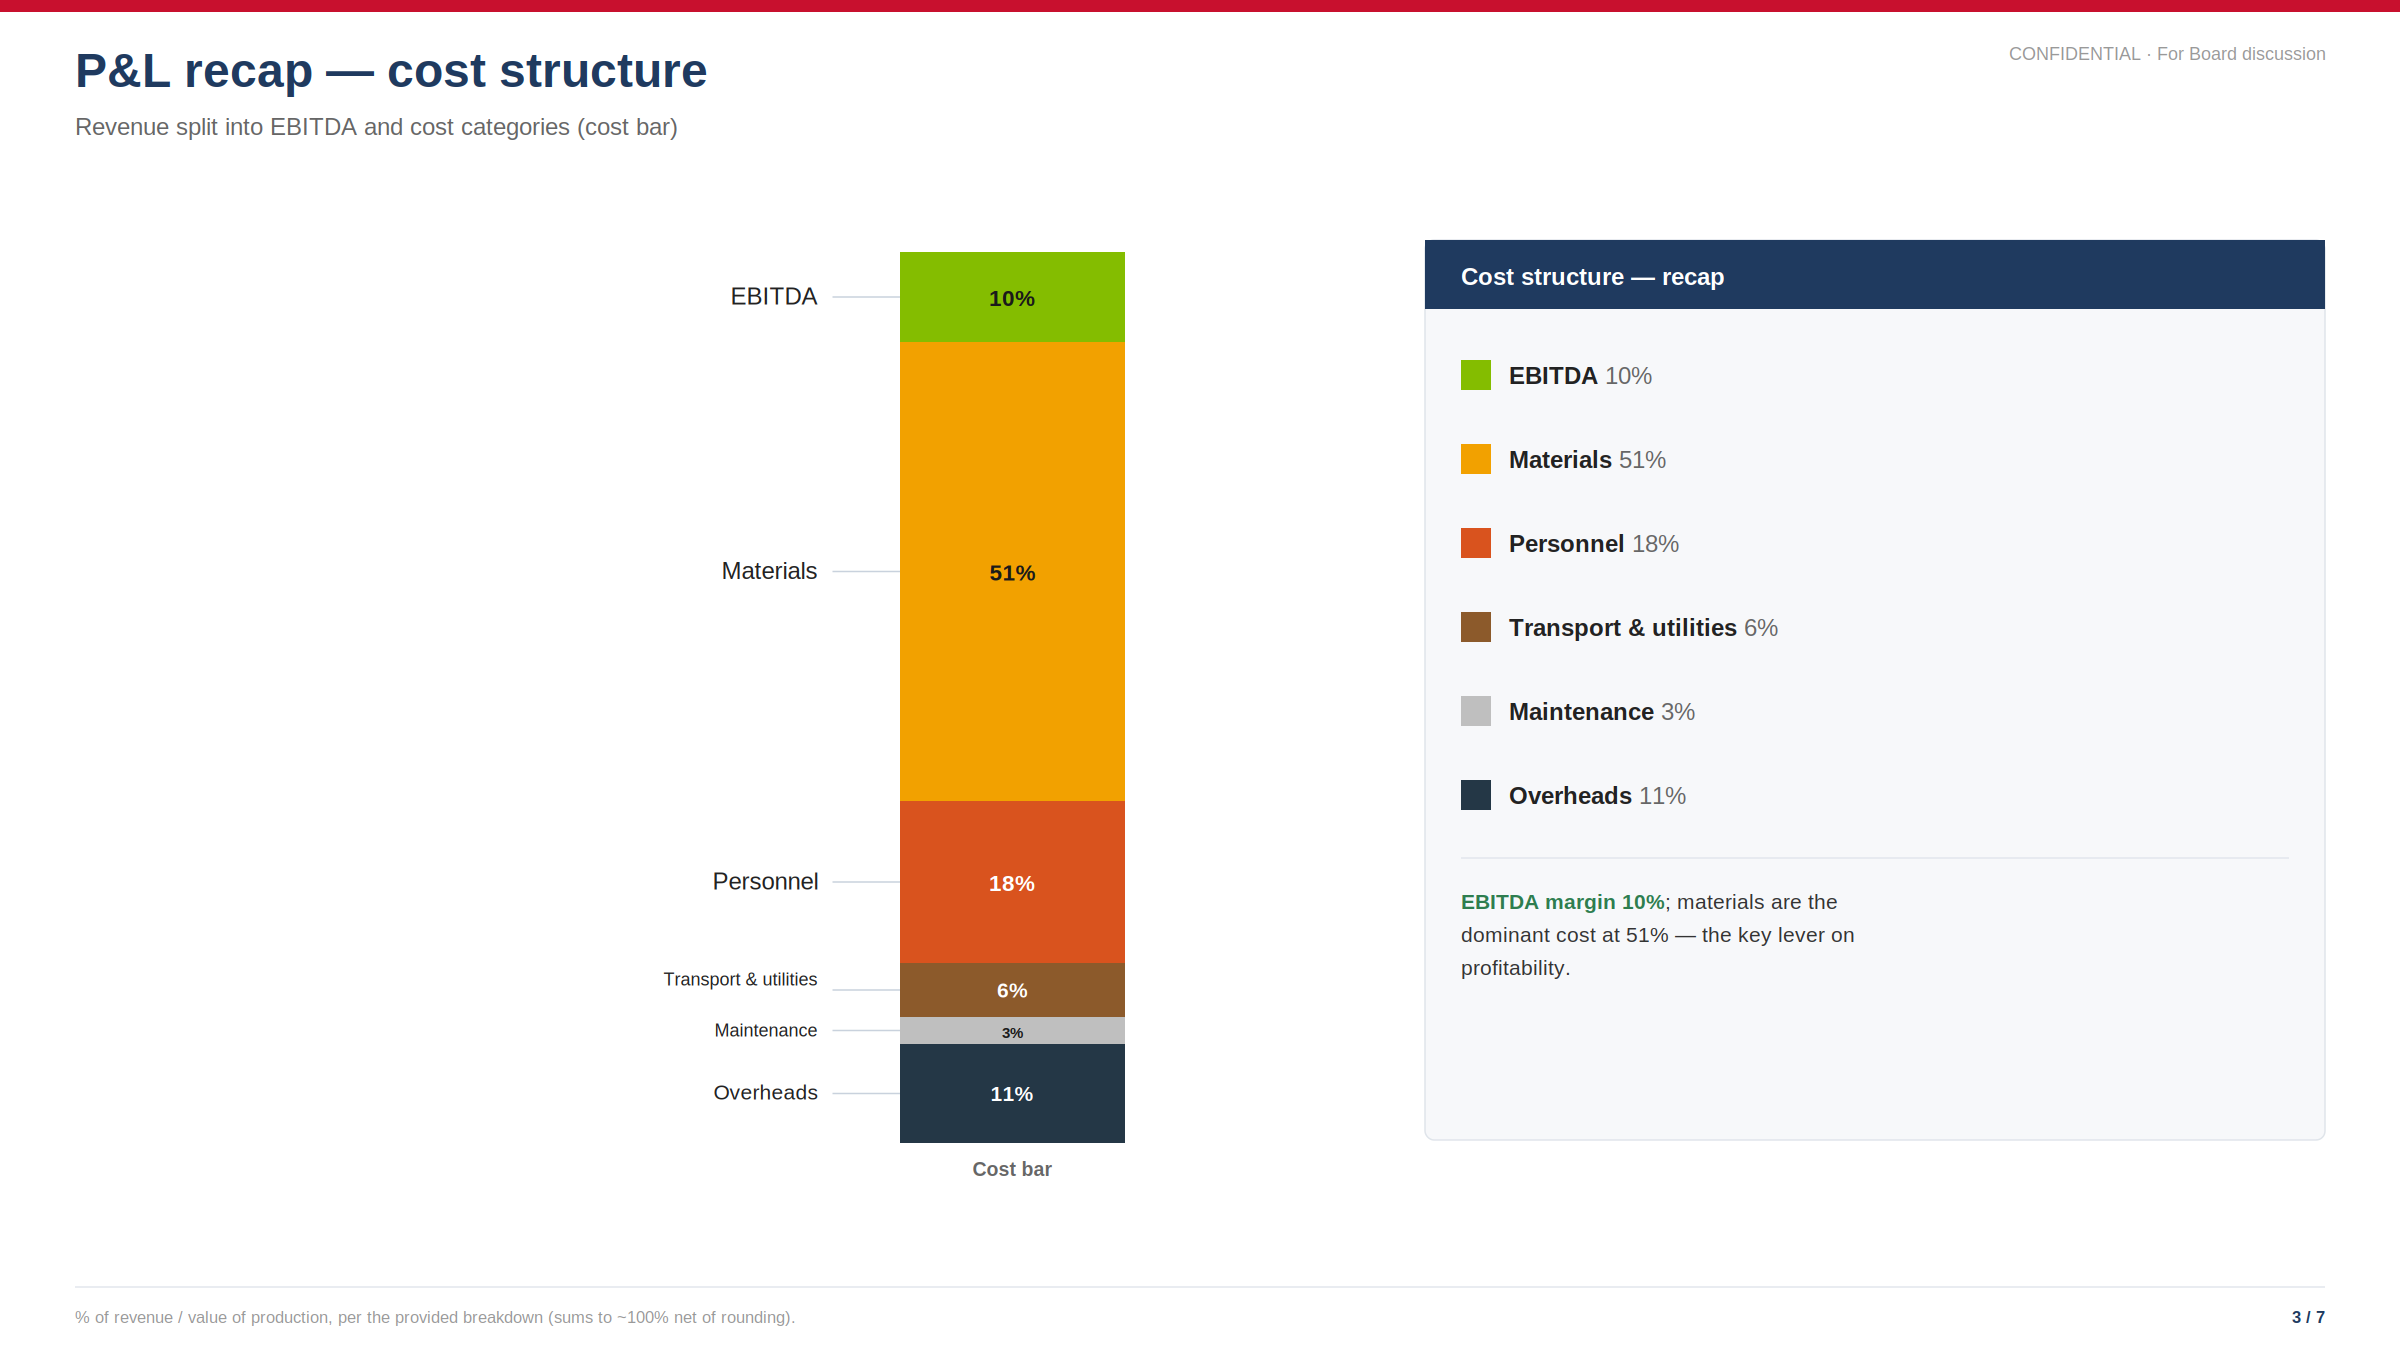
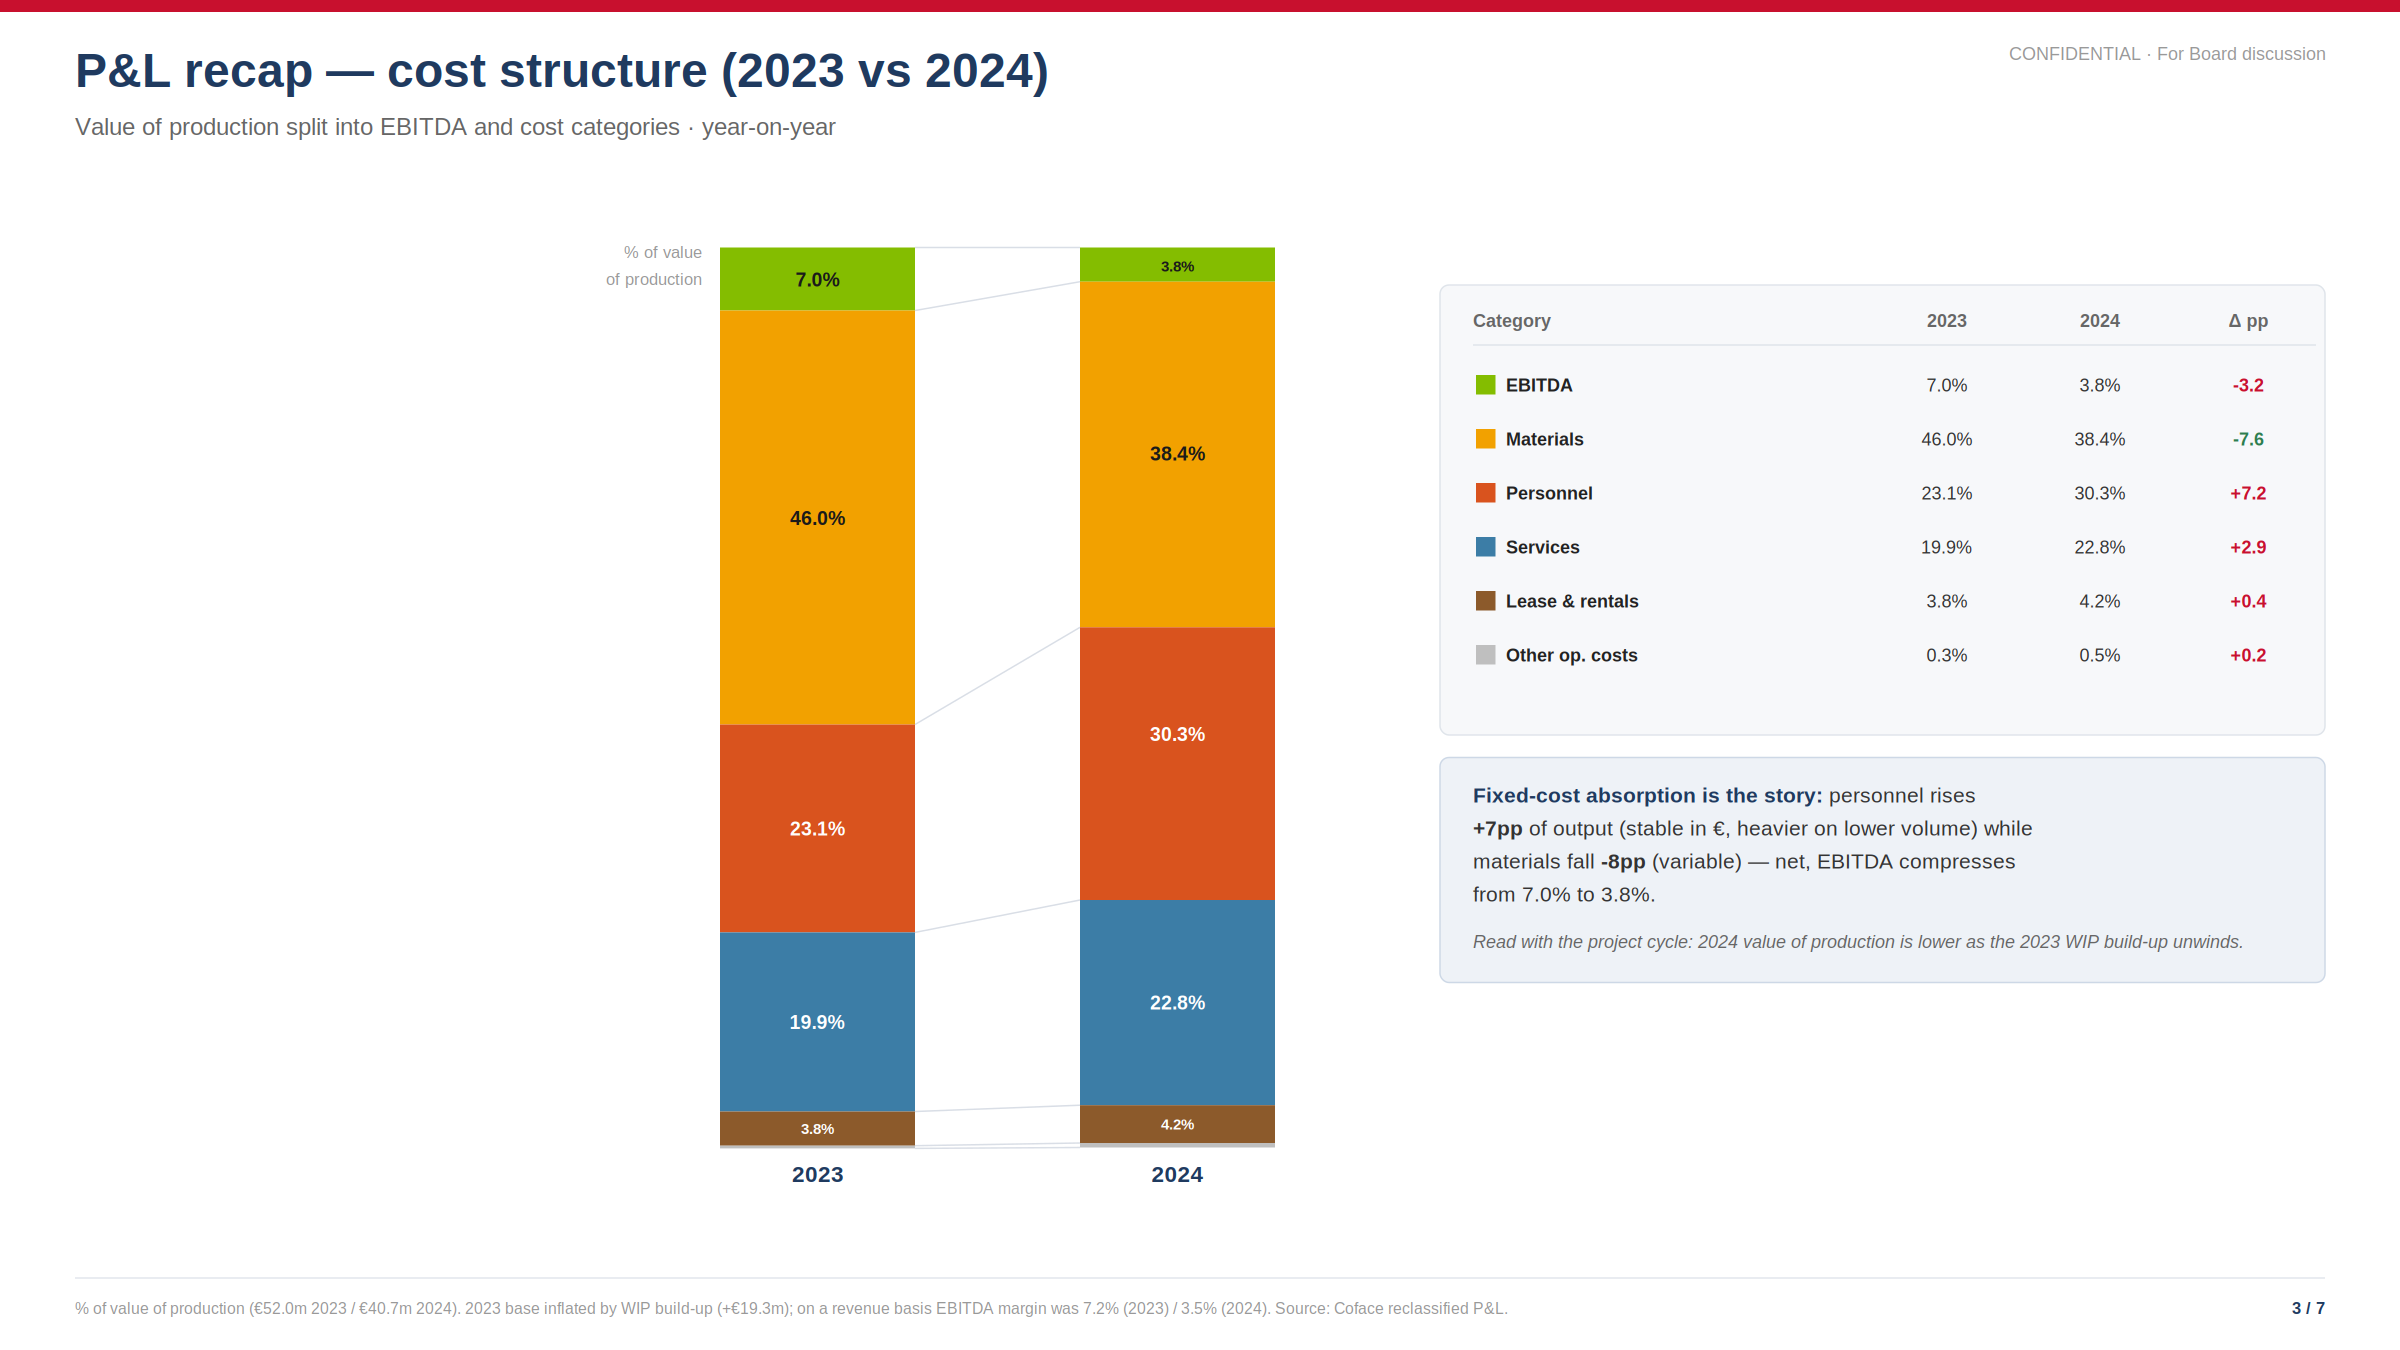
Rework P&L slide with real Hennecke data and 2023-vs-2024 YoY comparison

diff --git a/Hennecke/pitch/build_pptx_editable.py b/Hennecke/pitch/build_pptx_editable.py
@@ -6,7 +6,7 @@ from pptx import Presentation
 from pptx.util import Emu, Pt
 from pptx.dml.color import RGBColor
 from pptx.enum.text import PP_ALIGN, MSO_ANCHOR
-from pptx.enum.shapes import MSO_SHAPE
+from pptx.enum.shapes import MSO_SHAPE, MSO_CONNECTOR
 from pptx.chart.data import CategoryChartData
 from pptx.enum.chart import XL_CHART_TYPE, XL_LEGEND_POSITION, XL_LABEL_POSITION
 
@@ -238,40 +238,58 @@ para(tb(s, 50, 866, 900, 20), "Source: Coface Full Report (filed FY2023–2024).
      size=9.5, color=MUTED, first=True)
 
 # =====================================================================
-# SLIDE 2a2 — P&L COST STRUCTURE (recap bar)
+# SLIDE 2a2 — P&L COST STRUCTURE 2023 vs 2024 (YoY)
 # =====================================================================
 s = slide()
-header(s, "P&L recap \u2014 cost structure",
-       "Revenue split into EBITDA and cost categories (cost bar)", "3 / 7")
-BARX, BARW, top, PPC = 600, 150, 168, 6.0
-segs = [
-    ("EBITDA", 10, "84BD00", INK),
-    ("Materials", 51, "F2A100", INK),
-    ("Personnel", 18, "D9531E", WHITE),
-    ("Transport & utilities", 6, "8C5A2B", WHITE),
-    ("Maintenance", 3, "BFBFBF", INK),
-    ("Overheads", 11, "243746", WHITE),
-]
-y = top
-for name, pct, color, txtcol in segs:
-    h = pct*PPC
-    rect(s, BARX, y, BARW, h, fill=color)
-    para(tb(s, BARX, y, BARW, h, "m"), f"{pct}%", size=(15 if h>=30 else 10), color=txtcol, bold=True, align="c", first=True)
-    lab = tb(s, 300, y, 250, h, "m")
-    para(lab, name, size=(15 if h>=40 else 12), color=INK, align="r", first=True)
-    rect(s, 555, y+h/2.0, BARX-555, 1, fill="C9D2DD")
-    y += h
-para(tb(s, BARX-40, y+8, BARW+80, 24), "Cost bar", size=13, color=GRAY, bold=True, align="c", first=True)
-# right recap panel
-rect(s, 950, 160, 600, 600, fill=LIGHT, line=BORDER)
-card_title(s, 950, 160, 600, "Cost structure \u2014 recap", BLUE)
-tfp = tb(s, 974, 230, 552, 460)
-rows = [("84BD00","EBITDA","10%"),("F2A100","Materials","51%"),("D9531E","Personnel","18%"),
-        ("8C5A2B","Transport & utilities","6%"),("BFBFBF","Maintenance","3%"),("243746","Overheads","11%")]
-for i,(c,n,pc) in enumerate(rows):
-    para(tfp, [("\u25A0  ", False, c, 17), (n, True, INK, 15), ("      "+pc, False, GRAY, 15)], first=(i==0), after=13)
-para(tfp, [("EBITDA margin 10%", True, GREEN, 14), ("; materials are the dominant cost at 51% \u2014 the key lever on profitability.", False, TXT, 14)], after=6)
-para(tb(s, 50, 866, 1300, 20), "% of revenue / value of production, per the provided breakdown (sums to ~100% net of rounding).", size=9.5, color=MUTED, first=True)
+header(s, "P&L recap — cost structure (2023 vs 2024)",
+       "Value of production split into EBITDA and cost categories · year-on-year", "3 / 7")
+cats = ["EBITDA", "Materials", "Personnel", "Services", "Lease & rentals", "Other op. costs"]
+colA = {"EBITDA":"84BD00","Materials":"F2A100","Personnel":"D9531E","Services":"3C7DA6","Lease & rentals":"8C5A2B","Other op. costs":"BFBFBF"}
+txtA = {"EBITDA":INK,"Materials":INK,"Personnel":WHITE,"Services":WHITE,"Lease & rentals":WHITE,"Other op. costs":INK}
+d23 = {"EBITDA":7.0,"Materials":46.0,"Personnel":23.1,"Services":19.9,"Lease & rentals":3.8,"Other op. costs":0.3}
+d24 = {"EBITDA":3.8,"Materials":38.4,"Personnel":30.3,"Services":22.8,"Lease & rentals":4.2,"Other op. costs":0.5}
+deltas = {"EBITDA":"-3.2","Materials":"-7.6","Personnel":"+7.2","Services":"+2.9","Lease & rentals":"+0.4","Other op. costs":"+0.2"}
+TOPB, SCALE, BW = 165, 6.0, 130
+def draw_bar(x, data):
+    y = TOPB; bounds = [y]
+    for c in cats:
+        h = data[c]*SCALE
+        rect(s, x, y, BW, h, fill=colA[c])
+        if h >= 17:
+            para(tb(s, x, y, BW, h, "m"), f"{data[c]:.1f}%", size=(13 if h >= 28 else 10), color=txtA[c], bold=True, align="c", first=True)
+        y += h; bounds.append(y)
+    return bounds
+BX1, BX2 = 480, 720
+b1 = draw_bar(BX1, d23)
+b2 = draw_bar(BX2, d24)
+for i in range(len(b1)):
+    cn = s.shapes.add_connector(MSO_CONNECTOR.STRAIGHT, PX(BX1+BW), PX(b1[i]), PX(BX2), PX(b2[i]))
+    cn.line.color.rgb = RGBColor.from_string("D9DEE6"); cn.line.width = Pt(0.75); cn.shadow.inherit = False
+para(tb(s, BX1-20, b1[-1]+8, BW+40, 24), "2023", size=15, color=BLUE, bold=True, align="c", first=True)
+para(tb(s, BX2-20, b2[-1]+8, BW+40, 24), "2024", size=15, color=BLUE, bold=True, align="c", first=True)
+para(tb(s, 350, TOPB-2, 120, 22), "% of value", size=11, color=MUTED, align="r", first=True)
+para(tb(s, 350, TOPB+16, 120, 22), "of production", size=11, color=MUTED, align="r", first=True)
+# recap table (manual, fully styled)
+rect(s, 960, 190, 590, 300, fill=LIGHT, line=BORDER)
+para(tb(s, 982, 200, 260, 26), "Category", size=12, color=GRAY, bold=True, first=True)
+para(tb(s, 1250, 200, 96, 26), "2023", size=12, color=GRAY, bold=True, align="c", first=True)
+para(tb(s, 1352, 200, 96, 26), "2024", size=12, color=GRAY, bold=True, align="c", first=True)
+para(tb(s, 1454, 200, 90, 26), "Δ pp", size=12, color=GRAY, bold=True, align="c", first=True)
+rect(s, 982, 230, 562, 1, fill=BORDER)
+ry = 244
+for c in cats:
+    para(tb(s, 982, ry, 268, 28, "m"), [("■ ", False, colA[c], 12), (c, True, INK, 12)], first=True)
+    para(tb(s, 1250, ry, 96, 28, "m"), f"{d23[c]:.1f}%", size=12, color=TXT, align="c", first=True)
+    para(tb(s, 1352, ry, 96, 28, "m"), f"{d24[c]:.1f}%", size=12, color=TXT, align="c", first=True)
+    dv = deltas[c]; dcol = "2E7D4F" if (dv.startswith("-") and c != "EBITDA") else "C8102E"
+    para(tb(s, 1454, ry, 90, 28, "m"), dv, size=12, color=dcol, bold=True, align="c", first=True)
+    ry += 36
+# callout
+rect(s, 960, 505, 590, 150, fill=BLUEBG, line=BLUELN)
+tfc = tb(s, 982, 517, 546, 130)
+para(tfc, [("Fixed-cost absorption is the story: ", True, BLUE, 14), ("personnel rises ", False, TXT, 14), ("+7pp", True, TXT, 14), (" of output (stable in €, heavier on lower volume) while materials fall ", False, TXT, 14), ("-8pp", True, TXT, 14), (" (variable) — net, EBITDA compresses from 7.0% to 3.8%.", False, TXT, 14)], first=True, after=6)
+para(tfc, "Read with the project cycle: 2024 value of production is lower as the 2023 WIP build-up unwinds.", size=12, color=GRAY, italic=True)
+para(tb(s, 50, 860, 1330, 30), "% of value of production (€52.0m 2023 / €40.7m 2024). 2023 base inflated by WIP build-up (+€19.3m); on a revenue basis EBITDA margin was 7.2% (2023) / 3.5% (2024). Source: Coface reclassified P&L.", size=9.5, color=MUTED, first=True)
 
 # =====================================================================
 # SLIDE 2b — CUSTOMER MAPPING (B2B end-markets)

diff --git a/Hennecke/pitch/modify_pl_slide.py b/Hennecke/pitch/modify_pl_slide.py
@@ -1,0 +1,74 @@
+#!/usr/bin/env python3
+# -*- coding: utf-8 -*-
+"""Replace the P&L cost-structure slide block with a 2023-vs-2024 YoY version
+using Hennecke-OMS real figures (% of value of production)."""
+f = "/home/user/Storage/Hennecke/pitch/build_pptx_editable.py"
+src = open(f).read()
+
+# ensure MSO_CONNECTOR import
+if "MSO_CONNECTOR" not in src:
+    src = src.replace("from pptx.enum.shapes import MSO_SHAPE",
+                      "from pptx.enum.shapes import MSO_SHAPE, MSO_CONNECTOR")
+
+NEW = r'''# =====================================================================
+# SLIDE 2a2 — P&L COST STRUCTURE 2023 vs 2024 (YoY)
+# =====================================================================
+s = slide()
+header(s, "P&L recap — cost structure (2023 vs 2024)",
+       "Value of production split into EBITDA and cost categories · year-on-year", "3 / 7")
+cats = ["EBITDA", "Materials", "Personnel", "Services", "Lease & rentals", "Other op. costs"]
+colA = {"EBITDA":"84BD00","Materials":"F2A100","Personnel":"D9531E","Services":"3C7DA6","Lease & rentals":"8C5A2B","Other op. costs":"BFBFBF"}
+txtA = {"EBITDA":INK,"Materials":INK,"Personnel":WHITE,"Services":WHITE,"Lease & rentals":WHITE,"Other op. costs":INK}
+d23 = {"EBITDA":7.0,"Materials":46.0,"Personnel":23.1,"Services":19.9,"Lease & rentals":3.8,"Other op. costs":0.3}
+d24 = {"EBITDA":3.8,"Materials":38.4,"Personnel":30.3,"Services":22.8,"Lease & rentals":4.2,"Other op. costs":0.5}
+deltas = {"EBITDA":"-3.2","Materials":"-7.6","Personnel":"+7.2","Services":"+2.9","Lease & rentals":"+0.4","Other op. costs":"+0.2"}
+TOPB, SCALE, BW = 165, 6.0, 130
+def draw_bar(x, data):
+    y = TOPB; bounds = [y]
+    for c in cats:
+        h = data[c]*SCALE
+        rect(s, x, y, BW, h, fill=colA[c])
+        if h >= 17:
+            para(tb(s, x, y, BW, h, "m"), f"{data[c]:.1f}%", size=(13 if h >= 28 else 10), color=txtA[c], bold=True, align="c", first=True)
+        y += h; bounds.append(y)
+    return bounds
+BX1, BX2 = 480, 720
+b1 = draw_bar(BX1, d23)
+b2 = draw_bar(BX2, d24)
+for i in range(len(b1)):
+    cn = s.shapes.add_connector(MSO_CONNECTOR.STRAIGHT, PX(BX1+BW), PX(b1[i]), PX(BX2), PX(b2[i]))
+    cn.line.color.rgb = RGBColor.from_string("D9DEE6"); cn.line.width = Pt(0.75); cn.shadow.inherit = False
+para(tb(s, BX1-20, b1[-1]+8, BW+40, 24), "2023", size=15, color=BLUE, bold=True, align="c", first=True)
+para(tb(s, BX2-20, b2[-1]+8, BW+40, 24), "2024", size=15, color=BLUE, bold=True, align="c", first=True)
+para(tb(s, 350, TOPB-2, 120, 22), "% of value", size=11, color=MUTED, align="r", first=True)
+para(tb(s, 350, TOPB+16, 120, 22), "of production", size=11, color=MUTED, align="r", first=True)
+# recap table (manual, fully styled)
+rect(s, 960, 190, 590, 300, fill=LIGHT, line=BORDER)
+para(tb(s, 982, 200, 260, 26), "Category", size=12, color=GRAY, bold=True, first=True)
+para(tb(s, 1250, 200, 96, 26), "2023", size=12, color=GRAY, bold=True, align="c", first=True)
+para(tb(s, 1352, 200, 96, 26), "2024", size=12, color=GRAY, bold=True, align="c", first=True)
+para(tb(s, 1454, 200, 90, 26), "Δ pp", size=12, color=GRAY, bold=True, align="c", first=True)
+rect(s, 982, 230, 562, 1, fill=BORDER)
+ry = 244
+for c in cats:
+    para(tb(s, 982, ry, 268, 28, "m"), [("■ ", False, colA[c], 12), (c, True, INK, 12)], first=True)
+    para(tb(s, 1250, ry, 96, 28, "m"), f"{d23[c]:.1f}%", size=12, color=TXT, align="c", first=True)
+    para(tb(s, 1352, ry, 96, 28, "m"), f"{d24[c]:.1f}%", size=12, color=TXT, align="c", first=True)
+    dv = deltas[c]; dcol = "2E7D4F" if (dv.startswith("-") and c != "EBITDA") else "C8102E"
+    para(tb(s, 1454, ry, 90, 28, "m"), dv, size=12, color=dcol, bold=True, align="c", first=True)
+    ry += 36
+# callout
+rect(s, 960, 505, 590, 150, fill=BLUEBG, line=BLUELN)
+tfc = tb(s, 982, 517, 546, 130)
+para(tfc, [("Fixed-cost absorption is the story: ", True, BLUE, 14), ("personnel rises ", False, TXT, 14), ("+7pp", True, TXT, 14), (" of output (stable in €, heavier on lower volume) while materials fall ", False, TXT, 14), ("-8pp", True, TXT, 14), (" (variable) — net, EBITDA compresses from 7.0% to 3.8%.", False, TXT, 14)], first=True, after=6)
+para(tfc, "Read with the project cycle: 2024 value of production is lower as the 2023 WIP build-up unwinds.", size=12, color=GRAY, italic=True)
+para(tb(s, 50, 860, 1330, 30), "% of value of production (€52.0m 2023 / €40.7m 2024). 2023 base inflated by WIP build-up (+€19.3m); on a revenue basis EBITDA margin was 7.2% (2023) / 3.5% (2024). Source: Coface reclassified P&L.", size=9.5, color=MUTED, first=True)
+
+'''
+
+start = src.index("# SLIDE 2a2 ")
+banner = src.rindex("# ====", 0, start)
+end = src.index("# =====================================================================\n# SLIDE 2b — CUSTOMER MAPPING")
+src = src[:banner] + NEW + src[end:]
+open(f, "w").write(src)
+print("P&L slide replaced with YoY version")